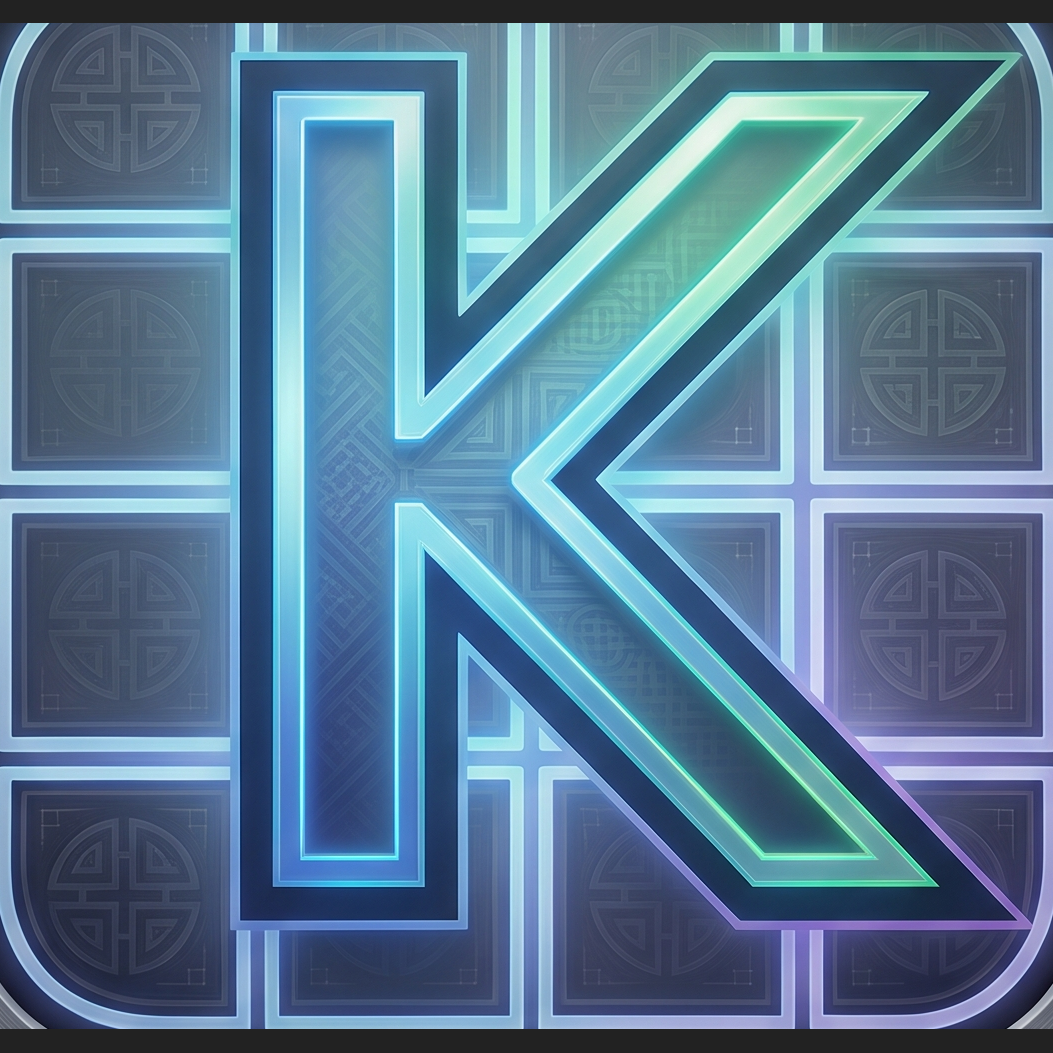
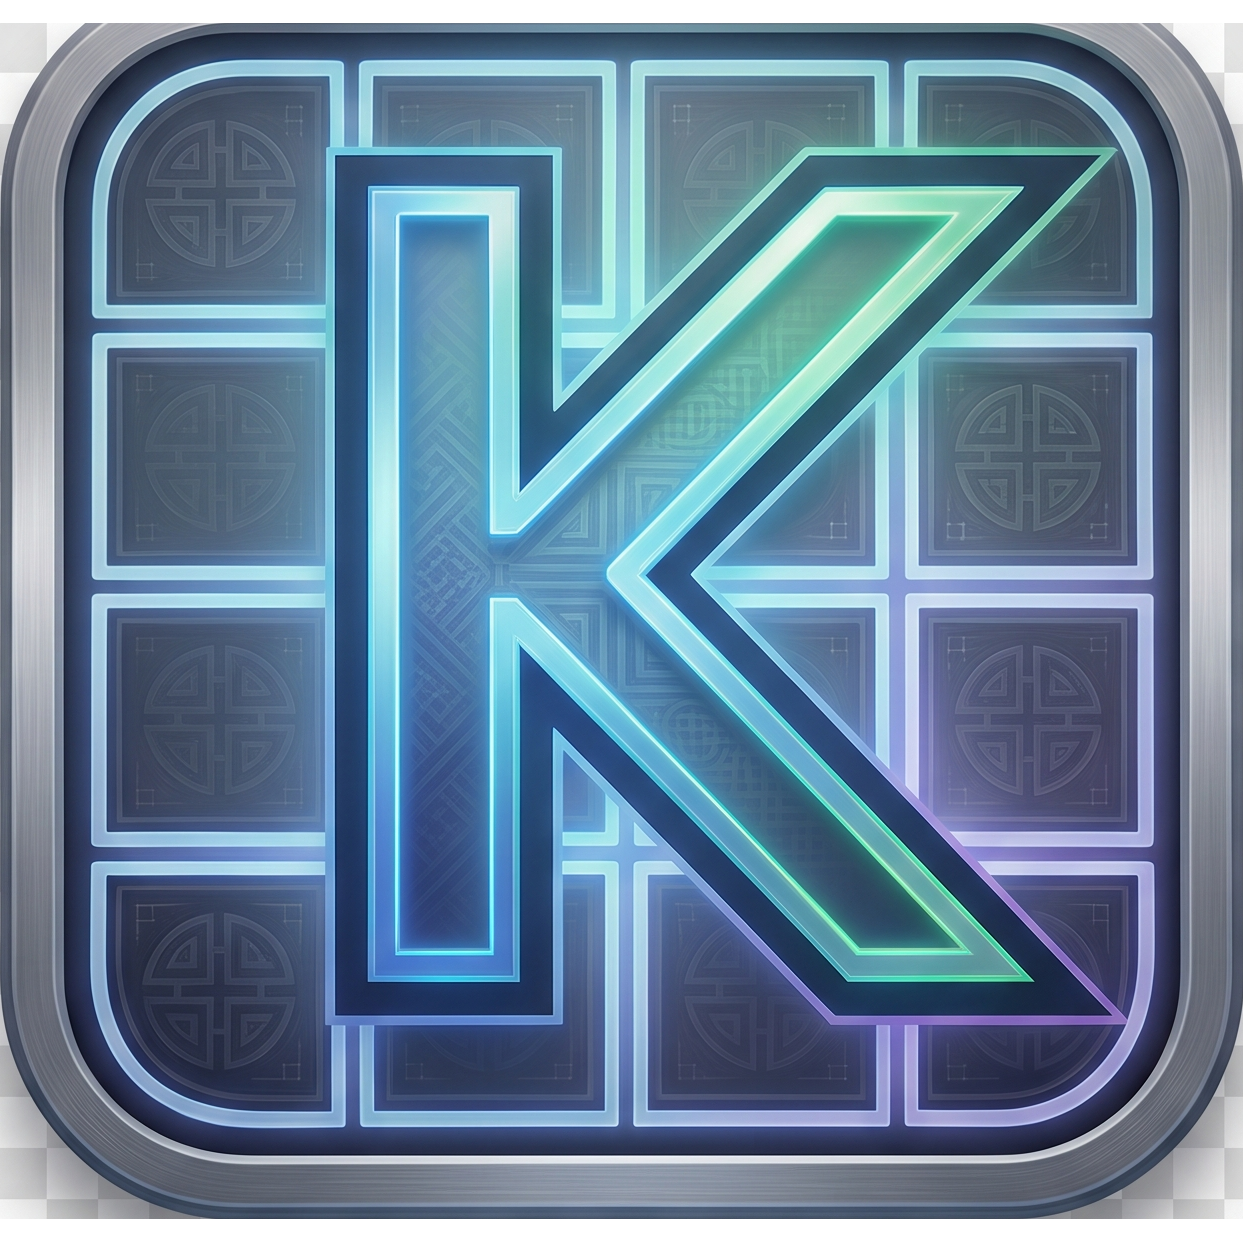
feat: K-FancyZones v1.0.7 — 아이콘 흰색 배경 적용, 프로그램 정보 화이트 테마

diff --git a/src/KrisZone/AboutWindow.xaml b/src/KrisZone/AboutWindow.xaml
@@ -7,11 +7,11 @@
         ShowInTaskbar="False"
         Topmost="True"
         ResizeMode="NoResize"
-        Width="320" Height="340"
+        Width="320" Height="360"
         WindowStartupLocation="CenterScreen">
-    <Border Background="#222222" BorderBrush="#333333" BorderThickness="1" CornerRadius="14">
+    <Border Background="#FFFFFF" BorderBrush="#DDDDDD" BorderThickness="1" CornerRadius="14">
         <Border.Effect>
-            <DropShadowEffect BlurRadius="30" ShadowDepth="0" Color="Black" Opacity="0.8"/>
+            <DropShadowEffect BlurRadius="30" ShadowDepth="0" Color="Black" Opacity="0.25"/>
         </Border.Effect>
         <Grid>
             <Grid.RowDefinitions>
@@ -20,13 +20,13 @@
             </Grid.RowDefinitions>
 
             <!-- 헤더 -->
-            <Border Grid.Row="0" BorderBrush="#2A2A2A" BorderThickness="0,0,0,1" Padding="16,14">
+            <Border Grid.Row="0" BorderBrush="#EEEEEE" BorderThickness="0,0,0,1" Padding="16,14">
                 <Grid>
                     <TextBlock Text="프로그램 정보" FontSize="14" FontWeight="Bold"
-                               Foreground="#F0F0F0" HorizontalAlignment="Center" VerticalAlignment="Center"/>
+                               Foreground="#111111" HorizontalAlignment="Center" VerticalAlignment="Center"/>
                     <Button x:Name="CloseBtn" Width="22" Height="22" HorizontalAlignment="Right"
                             Click="CloseBtn_Click" Cursor="Hand"
-                            Background="#3A3A3A" Foreground="#AAAAAA" FontSize="11"
+                            Background="#E5E5E5" Foreground="#555555" FontSize="11"
                             BorderThickness="0" Content="✕">
                         <Button.Style>
                             <Style TargetType="Button">
@@ -57,29 +57,29 @@
                         Margin="24,20,24,20" TextBlock.TextAlignment="Center">
                 <!-- 아이콘 -->
                 <Border Width="84" Height="84" CornerRadius="18" ClipToBounds="True"
-                        Margin="0,0,0,20" Background="#222222">
+                        Margin="0,0,0,20" Background="#FFFFFF">
                     <Image Source="pack://application:,,,/Resources/app_icon.png" Stretch="UniformToFill"/>
                 </Border>
 
                 <!-- 앱 이름 -->
                 <TextBlock Text="K-FancyZones" FontSize="18" FontWeight="ExtraBold"
-                           Foreground="#F0F0F0" Margin="0,0,0,4"/>
+                           Foreground="#111111" Margin="0,0,0,4"/>
 
                 <!-- 버전 -->
                 <TextBlock x:Name="VersionText" Text="버전 1.0.1" FontSize="12"
-                           Foreground="#888888" Margin="0,0,0,16"/>
+                           Foreground="#999999" Margin="0,0,0,16"/>
 
                 <!-- 구분선 -->
-                <Border Height="1" Background="#2D2D2D" Margin="0,0,0,14"/>
+                <Border Height="1" Background="#EEEEEE" Margin="0,0,0,14"/>
 
                 <!-- 설명 -->
-                <TextBlock FontSize="13" Foreground="#CCCCCC" LineHeight="24" Margin="0,0,0,14">
+                <TextBlock FontSize="13" Foreground="#333333" LineHeight="24" Margin="0,0,0,14">
                     윈도우 멀티 모니터 존 분할 관리<LineBreak/>
                     드래그로 앱을 정해진 영역에 배치
                 </TextBlock>
 
                 <!-- 저작권 -->
-                <TextBlock Text="© 2026 KrisB. All rights reserved." FontSize="11" Foreground="#888888"/>
+                <TextBlock Text="© 2026 KrisB. All rights reserved." FontSize="11" Foreground="#AAAAAA"/>
             </StackPanel>
         </Grid>
     </Border>